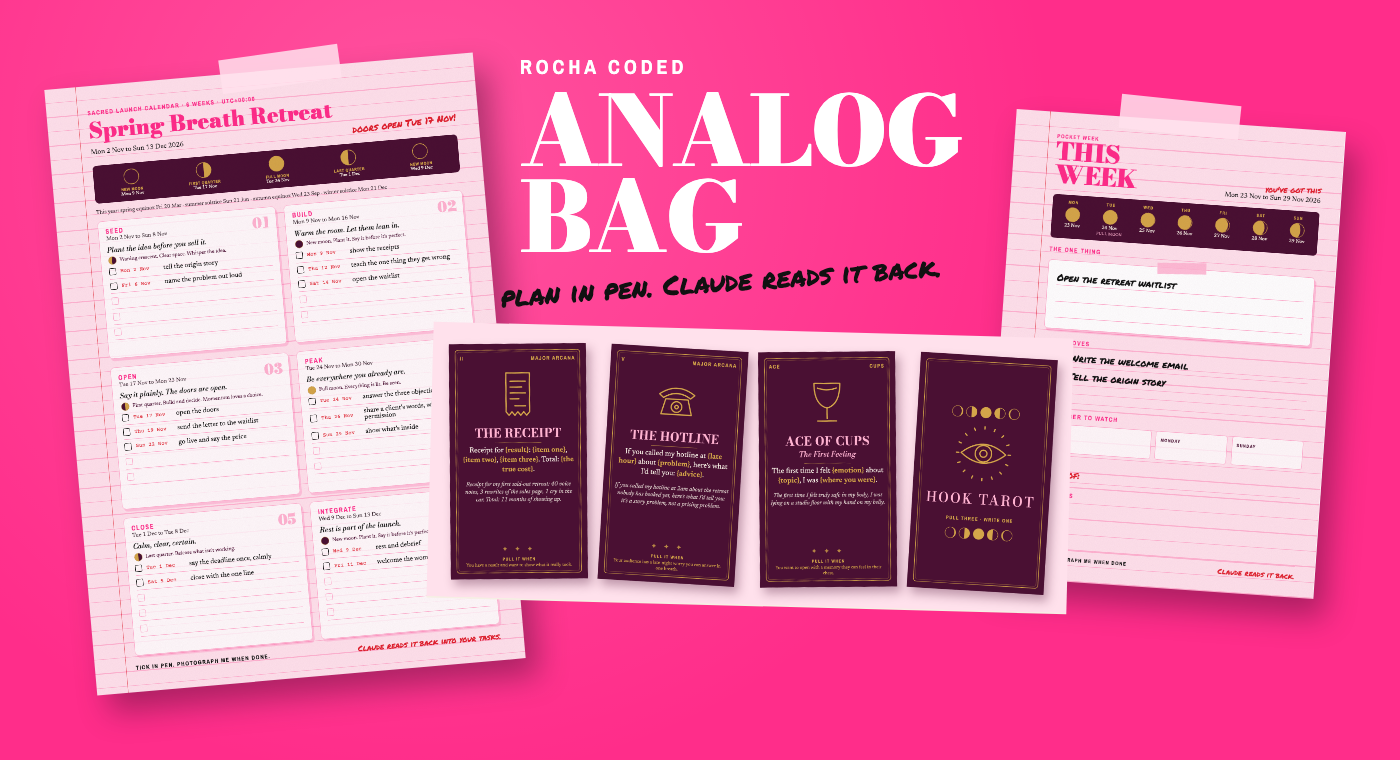
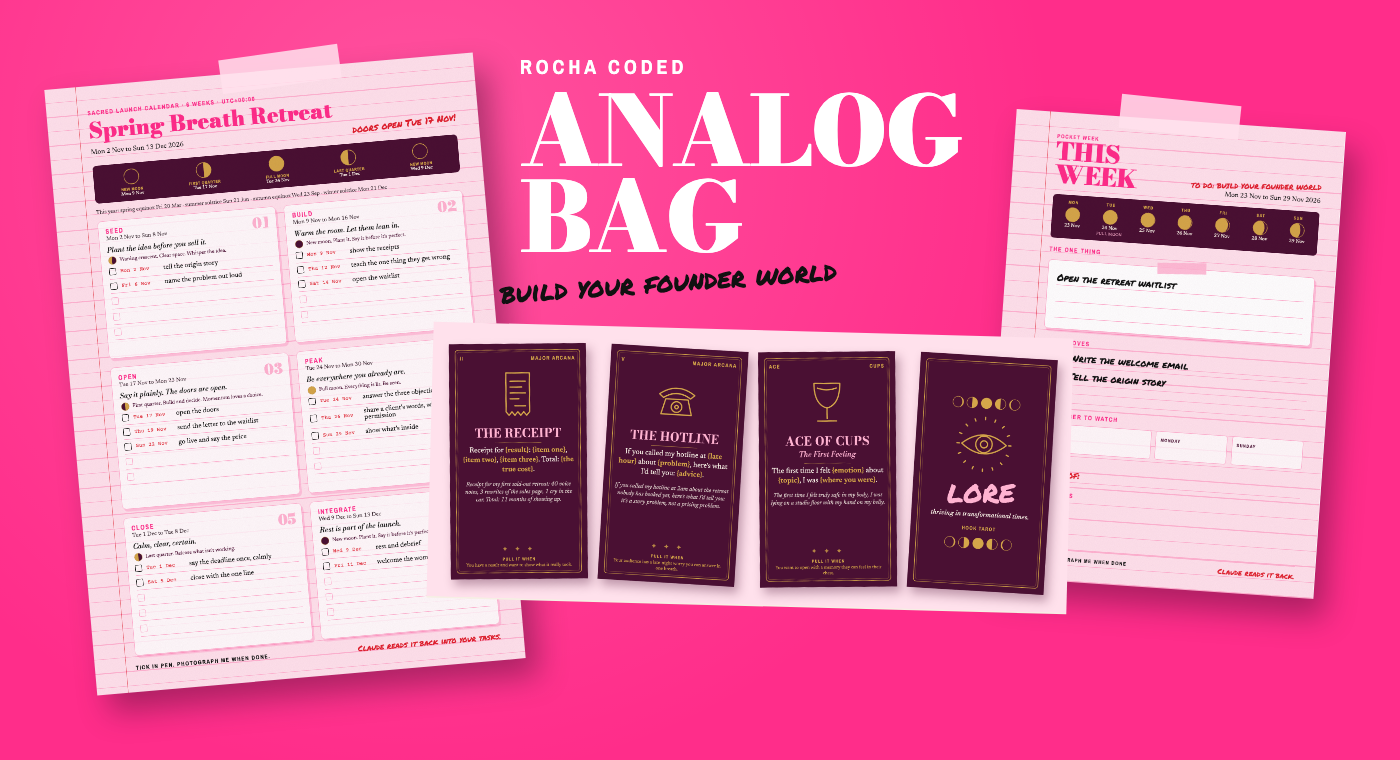
analog-bag: her language, shop window footer, scaffold refresh
Week page carries TO DO: BUILD YOUR FOUNDER WORLD, card backs carry LORE,
hero scrawl uses her line. README ends with the BRAND.md footer verbatim.
security-check.sh and build-zip.sh re-copied from _scaffold.

diff --git a/week/week.py b/week/week.py
@@ -34,7 +34,7 @@ body{background:#fff}
 .kicker{color:var(--hot);font-size:7pt}
 h1{font-family:var(--didone);font-weight:900;color:var(--hot);font-size:31pt;line-height:.95;letter-spacing:-.01em}
 .range{font-size:8.6pt;text-align:right}
-.range .marker{font-size:10pt;display:block;transform:rotate(-3deg)}
+.range .marker{font-size:9pt;display:block;transform:rotate(-3deg);margin-bottom:1mm}
 .moons{display:grid;grid-template-columns:repeat(7,1fr);gap:1mm;margin:3.5mm 0 3mm;padding:2mm 1.5mm;background:var(--plum);border-radius:1.6mm}
 .day{display:flex;flex-direction:column;align-items:center;color:var(--cream);font-size:6.4pt;gap:.6mm}
 .day .tag{color:var(--gold);font-size:5.6pt}
@@ -94,7 +94,7 @@ def sheet(start: date, days: list[dict], hemi: str, fill: dict) -> str:
     num = fill.get("number")
     return (f"<section class='week lined grain'>"
             f"<div class='top'><div><div class='kicker tag'>Pocket week</div><h1>THIS<br>WEEK</h1></div>"
-            f"<div class='range'><span class='marker'>you've got this</span>{esc(nice(start))} to {esc(nice(end))} {end.year}</div></div>"
+            f"<div class='range'><span class='marker'>TO DO: BUILD YOUR FOUNDER WORLD</span>{esc(nice(start))} to {esc(nice(end))} {end.year}</div></div>"
             f"<div class='moons'>{strip}</div>"
             f"<div class='label tag'>The one thing</div><div class='one'>{one_lines}</div>"
             f"<div class='label tag'>Three moves</div>{move_rows}"

diff --git a/tarot/print.py b/tarot/print.py
@@ -53,6 +53,8 @@ body{background:#fff}
 .back .word{font-family:var(--didone);color:var(--candy);font-size:1.7em;letter-spacing:.12em;text-transform:uppercase}
 .back .moons{display:flex;gap:1.2mm}
 .back .sub{color:var(--gold);font-size:.62em}
+.back .lore{font-family:var(--marker);color:var(--candy);font-size:3.2em;line-height:1;transform:rotate(-4deg)}
+.back .under{font-family:var(--didone);font-style:italic;color:var(--cream);font-size:.8em;margin-top:-1mm}
 .cut{position:absolute;border-color:#9b8a93;border-style:dashed;border-width:0}
 .cut.v{border-left-width:.2mm;width:0}
 .cut.h{border-top-width:.2mm;height:0}
@@ -99,7 +101,8 @@ def back(size: str, x: float, y: float) -> str:
     moons = "".join(moon_svg(a, round(6 * s, 1)) for a in (0.12, 0.25, 0.5, 0.75, 0.88))
     return (f"<div class='card back' style='left:{x}mm;top:{y}mm'><div class='frame'></div><div class='inner'>"
             f"<div class='moons'>{moons}</div>{glyph_svg('eye', round(30 * s, 1))}"
-            f"<div class='word'>Hook Tarot</div><div class='sub tag'>pull three &middot; write one</div>"
+            f"<div class='lore'>LORE</div><div class='under'>thriving in transformational times.</div>"
+            f"<div class='sub tag'>Hook Tarot</div>"
             f"<div class='moons'>{moons}</div></div></div>")
 
 

diff --git a/scripts/make_examples.py b/scripts/make_examples.py
@@ -90,7 +90,7 @@ HERO_BODY = """<div class='desk'>
 <img class='shot week' src='{week}' alt=''>
 <div class='tape' style='left:1120px;top:100px;transform:rotate(6deg)'></div>
 <div class='title'><small>ROCHA CODED</small>ANALOG<br>BAG</div>
-<div class='scrawl'>plan in pen. Claude reads it back.</div>
+<div class='scrawl'>build your founder world</div>
 <img class='shot tarot' src='{tarot}' alt=''>
 </div>"""
 
